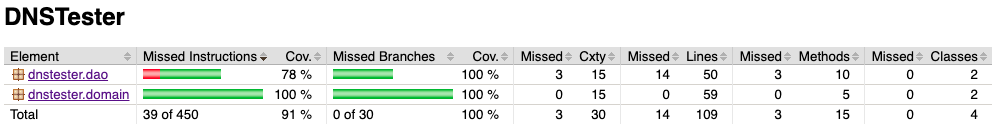
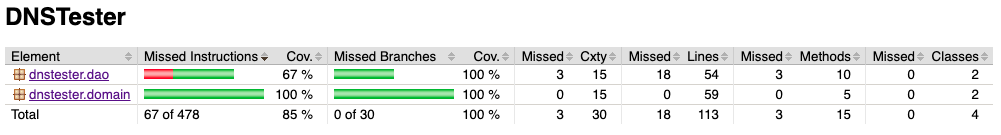
Final touches

Changed region(s): [[0.0, 0.3556, 0.996, 0.8889], [0.0, 0.0296, 0.1245, 0.2074], [0.5291, 0.8593, 0.5602, 0.8889]]

diff --git a/Dokumentaatio/testaus.md b/Dokumentaatio/testaus.md
@@ -8,9 +8,9 @@ Testit tekevät todellisia DNS-kyselyjä ja edellyttävät siksi toimivaa verkko
 
 ### Sovelluslogiikka
 
-Suurin osa testeistä on [TesterTest-paketissa](https://github.com/riihikallio/ohte/blob/master/DNSTester/src/test/java/dnstester/domain/TesterTest.java). Se pyrkii testaamaan sovelluksen varsinaista toimintaa eri vaihtoehdoilla ja simuloimaan tyypillisiä virhetilanteita. Niiden osalta testikattavuus on täydet 100% eli kaikki catch-lohkotkin on saatu testattua.
+Suurin osa testeistä on [TesterTest](https://github.com/riihikallio/ohte/blob/master/DNSTester/src/test/java/dnstester/domain/TesterTest.java)-paketissa. Se pyrkii testaamaan sovelluksen varsinaista toimintaa eri vaihtoehdoilla ja simuloimaan tyypillisiä virhetilanteita. Niiden osalta testikattavuus on täydet 100% eli kaikki catch-lohkotkin on saatu testattua.
 
-Testit käyttävät normaalia tietokantaa. Testeissä tietokantaan tallettuvat tulokset poistetaan testiajon päätyttyä @AfterClass-metodilla. Tämä oli lopulta yksinkertaisempi ratkaisu kuin luoda rinnakkainen toteutus. Samalla se mahdollistaa todellisen integraatiotestauksen, jota edustaa testi _historyGrows_.
+Testit käyttävät normaalia tietokantaa. Testeissä tietokantaan tallettuvat tulokset poistetaan testiajon päätyttyä @AfterClass-metodilla. Tämä oli lopulta yksinkertaisempi ratkaisu kuin luoda rinnakkainen tallennustoteutus. Samalla se mahdollistaa todellisen integraatiotestauksen, jota edustaa testi _historyGrows_.
 
 ### DAO-yksikkötestaus
 
@@ -20,11 +20,11 @@ Testit käyttävät normaalia tietokantaa. Testeissä tietokantaan tallettuvat t
 
 ### Testauskattavuus
 
-Käyttöliittymäkerrosta lukuunottamatta sovelluksen testauksen rivikattavuus on 91% ja haarautumakattavuus 100%
+Käyttöliittymäkerrosta lukuunottamatta sovelluksen testauksen rivikattavuus on 85% ja haarautumakattavuus 100%
 
 ![Kattavuus](https://github.com/riihikallio/ohte/blob/master/Dokumentaatio/Kuvat/testaus.png)
 
-Testaamatta jäivät catch-lohkot, jotka liittyivät verkko-, tietokanta- ja levyjärjestelmävirheisiin.
+Testaamatta jäivät catch-lohkot, jotka liittyivät tietokanta- ja levyjärjestelmävirheisiin.
 
 ## Järjestelmätestaus
 

diff --git a/README.md b/README.md
@@ -16,7 +16,7 @@ Sovellus testaa halutun DNS-palvelimen vasteaikaa. Käyttäjältä kysytään DN
 
 ## Releaset
 
-[Loppupalautus](https://github.com/riihikallio/ohte/releases/tag/v1.4)
+[Loppupalautus](https://github.com/riihikallio/ohte/releases/tag/v1.5)
 
 ## Komentorivitoiminnot
 

diff --git a/Dokumentaatio/tunnit.md b/Dokumentaatio/tunnit.md
@@ -19,4 +19,5 @@
 | 7.5. | 3 | Historia-ikkuna |
 | 8.5. | 4 | TableView-toimii |
 |  | 2 | Dokumentaatiota |
-| Yht | 52 | |
+|  | 7 | Testejä ja viimeistelyä |
+| Yht | 59 | |
